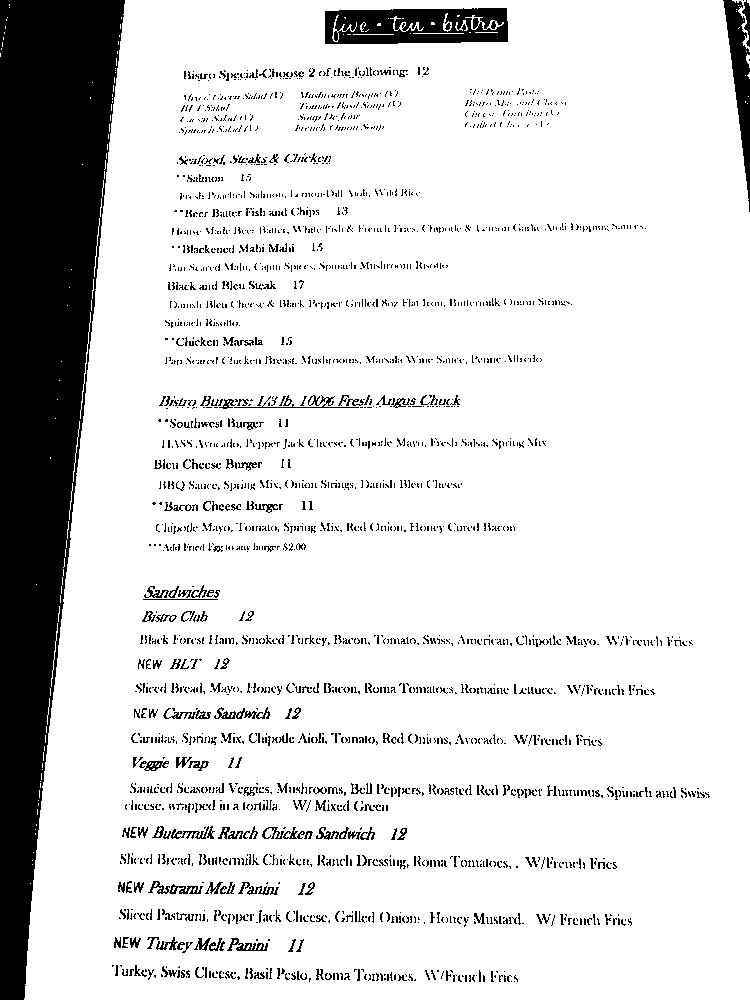
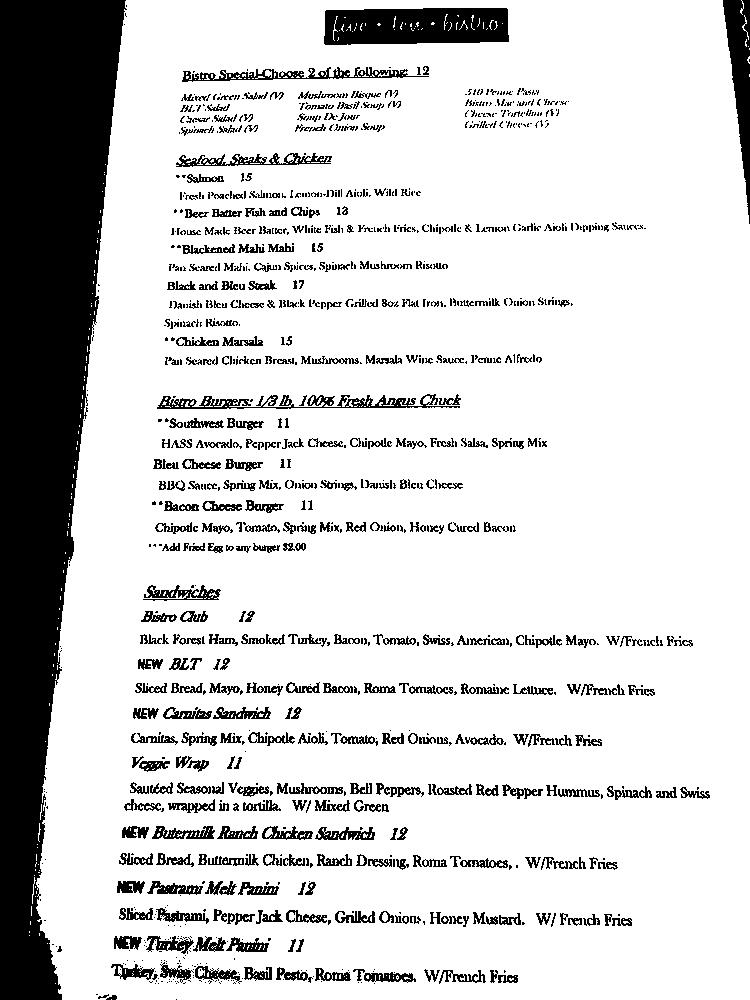
Added some code to de-noise (mean filter)

diff --git a/temp.py b/temp.py
@@ -1,6 +1,10 @@
-import matplotlib.pyplot as plt
+import cv2
 import numpy as np
+import os
 
-data = [78, 81, 60, 37, 36, 69, 61, 71, 56, 50, 81, 53, 48, 61, 67, 42, 100, 88, 95, 80, 85, 80, 89, 92, 88, 90, 98, 90, 99, 88, 94, 94, 92, 97, 100, 98, 99, 98, 99, 102, 107, 103, 93, 106, 102, 93, 100, 96, 101, 106, 104, 104, 102, 100, 107, 106, 109, 109, 103, 110, 103, 104, 104, 93, 99, 97, 100, 103, 110, 100, 102, 105, 92, 85, 118, 97, 92, 89, 92, 84, 106, 97, 89, 93, 98, 100, 84, 85, 82, 77, 74, 68, 75, 70, 78, 71, 63, 56, 52, 62]
+img = cv2.imread('Images/grayscale.jpg')
+median = cv2.medianBlur(img, 3)
 
-print(data.index(118))
+compare = np.concatenate((img, median), axis=1)
+
+cv2.imwrite('test.jpg', compare)

diff --git a/menu_to_text.py b/menu_to_text.py
@@ -1,6 +1,7 @@
 import os
 import pytesseract
 import enchant
+import cv2
 from PIL import Image
 
 english_dict = enchant.Dict("en_US")
@@ -41,7 +42,7 @@ image.save(save_path)
 
 # Convert the image to txt
 custom_oem_psm_config = r'--oem 3 --psm 6'
-text = pytesseract.image_to_string(Image.open(save_path), config=custom_oem_psm_config).split(" ")
+text = pytesseract.image_to_string(Image.open(save_path), config=custom_oem_psm_config)
 
 # Save Output
 text_file = open("Output.txt", "w")

diff --git a/README.md b/README.md
@@ -1,2 +1,4 @@
 # open-menu
 Simplify the search for restaurant's menus 
+
+# TODO Test out removal of borders
